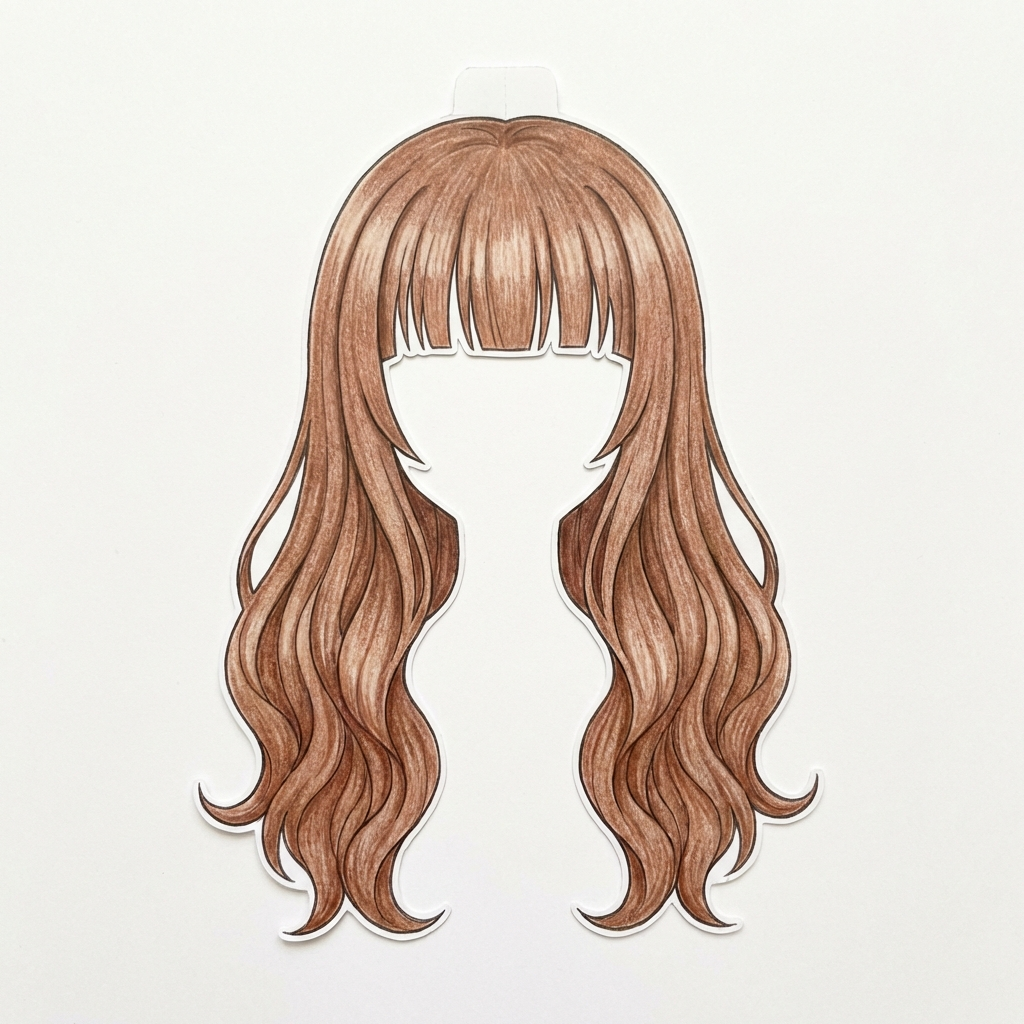
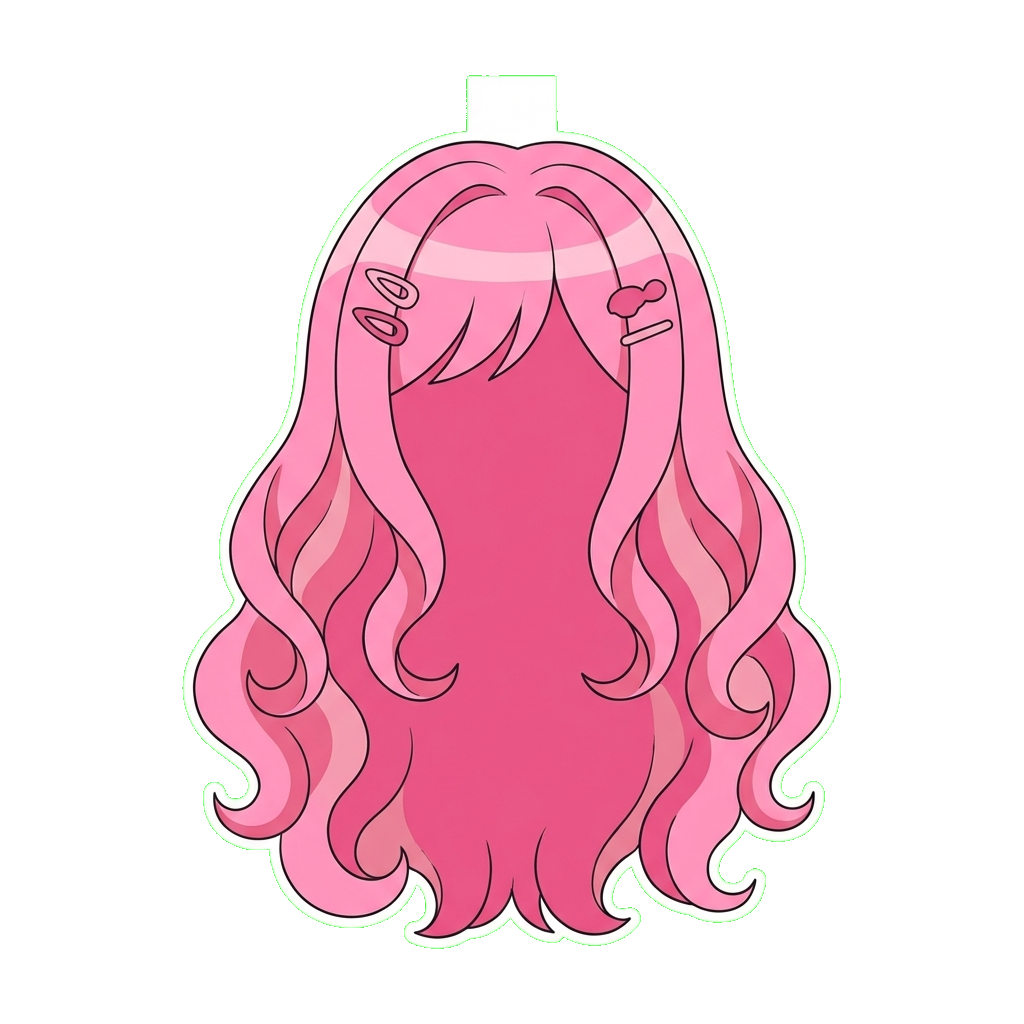
feat: overhaul assets with new anime style and bg removal script

diff --git a/remove_bg.py b/remove_bg.py
@@ -1,0 +1,61 @@
+import os
+import sys
+from PIL import Image
+
+def remove_green_background(image_path, tolerance=60):
+    """
+    Removes green background from an image.
+    Target Green: (0, 255, 0)
+    Tolerance handles slight variations in the green screen.
+    """
+    try:
+        img = Image.open(image_path)
+        img = img.convert("RGBA")
+        datas = img.getdata()
+
+        newData = []
+        # Target Green color
+        bg_r, bg_g, bg_b = 0, 255, 0
+
+        for item in datas:
+            r, g, b, a = item
+            
+            # Check difference from green
+            diff = abs(r - bg_r) + abs(g - bg_g) + abs(b - bg_b)
+            
+            # Heuristic: Green is dominant and close to 255, Red/Blue close to 0
+            if g > 150 and r < 100 and b < 100: 
+                 newData.append((255, 255, 255, 0)) # Transparent
+            elif diff < tolerance:
+                newData.append((255, 255, 255, 0)) # Transparent
+            else:
+                newData.append(item)
+
+        img.putdata(newData)
+        
+        # Save as PNG, replacing the original or ensuring .png extension
+        output_path = os.path.splitext(image_path)[0] + ".png"
+        img.save(output_path, "PNG")
+        print(f"Successfully processed: {output_path}")
+        
+    except Exception as e:
+        print(f"Error processing {image_path}: {e}")
+
+if __name__ == "__main__":
+    if len(sys.argv) < 2:
+        print("Usage: python3 remove_bg.py <file_or_directory>")
+        sys.exit(1)
+
+    target = sys.argv[1]
+    
+    if os.path.isdir(target):
+        for root, dirs, files in os.walk(target):
+            for file in files:
+                if file.lower().startswith('bg_'):
+                    continue
+                if file.lower().endswith(('.png', '.jpg', '.jpeg', '.webp')):
+                     remove_green_background(os.path.join(root, file))
+    elif os.path.isfile(target):
+        remove_green_background(target)
+    else:
+        print("Invalid path")
